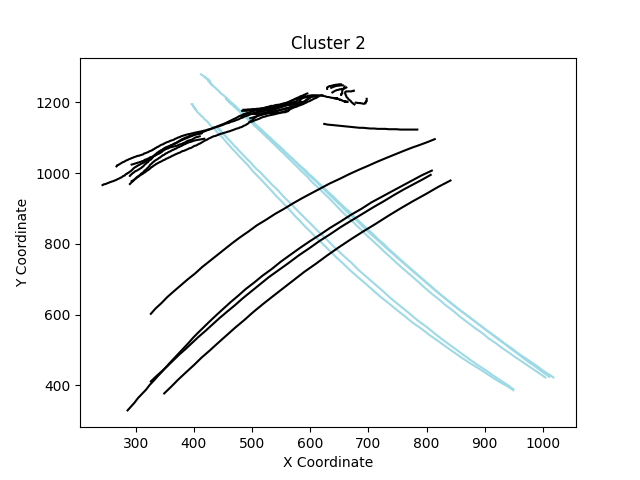
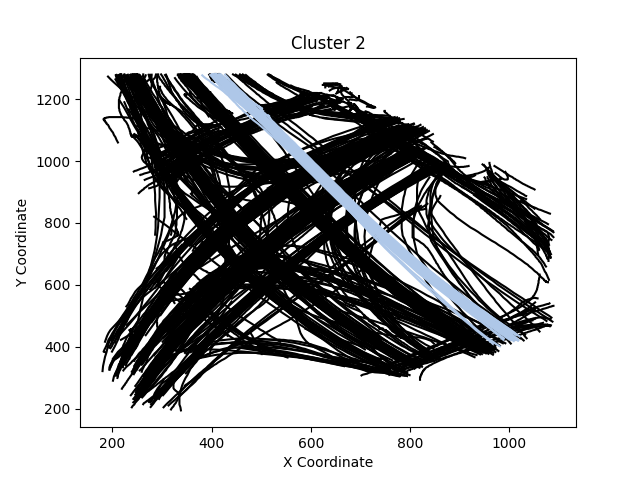
Update code

diff --git a/main.py b/main.py
@@ -1,13 +1,25 @@
 import json
-from src.trajectory  import Trajectory
+from src.trajectory import Trajectory
 from src.visualization import drawClusterOnAllPraj
-from src.trajectory_processor import generateDistanceMap,formClusterOfTrajectory,getBigCluster
-def main ():
+from src.trajectory_processor import generateDistanceMap, formClusterOfTrajectory, getBigCluster
+
+def main():
+    """
+    Main function for clustering and visualizing trajectories.
+
+    Reads trajectory data from a JSON file, performs clustering, and visualizes clusters.
+
+    Args:
+        None
+
+    Returns:
+        None
+    """
     # Define hyper-parameters
     windowSize = 200  # The window size for trajectory comparison
-    distanceThreshold = 0.5  # The threshold for merge cluster 
+    distanceThreshold = 0.5  # The threshold for merge clusters
     sampleSize = 1000  # The number of trajectories to process
-    numMostCommonGroupToDisplay=3   # The number of trajectories cluster shown on the full picture
+    numMostCommonGroupToDisplay = 30  # The number of trajectories clusters shown on the full picture
 
     # Read and parse trajectory data from the JSON file
     with open(r'data/trajectories.json') as dataFile:
@@ -20,16 +32,21 @@ def main ():
 
     # Generate the distance map
     distanceMap = generateDistanceMap(parsedTrajectoryList, windowSize)
-    clusters = formClusterOfTrajectory(distanceMap,distanceThreshold)
-    bigCluster=getBigCluster(clusters,numMostCommonGroupToDisplay)
     
-        
-        
+    # Form clusters of trajectories based on distance map and threshold
+    clusters = formClusterOfTrajectory(distanceMap, distanceThreshold)
+    
+    # Get the biggest clusters for visualization
+    bigCluster = getBigCluster(clusters, numMostCommonGroupToDisplay)
+
+    # Visualize each big cluster
     for clusterId, members in bigCluster.items():
-        drawClusterOnAllPraj(parsedTrajectoryList,bigCluster,clusterId,title=f'Cluster {clusterId}') 
-        
-    numPrajInBigCluster=sum([len(cluster) for _,cluster in bigCluster.items()])
-    drawClusterOnAllPraj(parsedTrajectoryList,bigCluster,title=f'Most common {numMostCommonGroupToDisplay} routes ({numPrajInBigCluster} of {len(parsedTrajectoryList)} trajectories)')
+        drawClusterOnAllPraj(parsedTrajectoryList, bigCluster, clusterId, title=f'Cluster {clusterId}') 
+
+    numPrajInBigCluster = sum([len(cluster) for _, cluster in bigCluster.items()])
+    # Visualize all big clusters and other trajectories in one image
+    drawClusterOnAllPraj(parsedTrajectoryList, bigCluster,
+                         title=f'Most common {numMostCommonGroupToDisplay} clusters ({numPrajInBigCluster} of {len(parsedTrajectoryList)} trajectories)')
 
 if __name__ == '__main__':
     main()

diff --git a/src/trajectory_processor.py b/src/trajectory_processor.py
@@ -22,18 +22,18 @@ def getBigCluster(clusters: list, numMostCommonGroupToDisplay: int) -> dict:
         else:
             clusterMembers[clusterId] = [idx]
 
-    cluster_sizes = Counter(clusters)  # Count the size of each cluster
-    largest_clusters = cluster_sizes.most_common(numMostCommonGroupToDisplay)  # Find the largest clusters
+    clusterSizes = Counter(clusters)  # Count the size of each cluster
+    largestClusters = clusterSizes.most_common(numMostCommonGroupToDisplay)  # Find the largest clusters
 
-    big_cluster = {}
-    for cluster, size in largest_clusters:
-        big_cluster[len(big_cluster)] = clusterMembers[cluster]
+    bigCluster = {}
+    for cluster, size in largestClusters:
+        bigCluster[len(bigCluster)] = clusterMembers[cluster]
 
-    return big_cluster
+    return bigCluster
 
 def formClusterOfTrajectory(distanceMap: np.ndarray, distanceThreshold: float) -> np.ndarray:
     """
-    Perform hierarchical clustering on a distance map.
+    Perform hierarchical clustering on a distance map with ski-learn.
 
     Args:
         distanceMap (numpy.ndarray): Distance map for entities.
@@ -67,16 +67,16 @@ def generateDistanceMap(parsedTrajectoryList: list, windowSize: int) -> np.ndarr
     for i, entity in enumerate(parsedTrajectoryList):
         disArray = []  # Initialize an array to store distances from the current entity
 
-        if i % (len(parsedTrajectoryList) / 20) == 0:
+        if i % 10 == 0:
             print(f'{i} of {len(parsedTrajectoryList)} trajectories has been processed')
 
-        # Calculate similarity with all other entities
+        # Calculate similarity with all other trajectories
         for j, entity2 in enumerate(parsedTrajectoryList):
             if i > j:
                 continue
-            similarity = 1 - entity.similarity(entity2, windowSize)  # Calculate the similarity
-            distanceMap[i][j] = similarity
-            distanceMap[j][i] = similarity
+            distance = 1 - entity.similarity(entity2, windowSize)  # Calculate the similarity
+            distanceMap[i][j] = distance
+            distanceMap[j][i] = distance
 
     print(f'All trajectories have been processed')
 

diff --git a/src/visualization.py b/src/visualization.py
@@ -28,15 +28,17 @@ def drawClusterOnAllPraj(allTrajectory: list,clusterSet: dict,clusterIdx=None,ti
     if clusterIdx==None:
         for cluster_idx,cluster in clusterSet.items():
             for mem in cluster:
-                traj=allTrajectory[mem]
-                x_coords, y_coords = traj.trajExport()
-                plt.plot(x_coords, y_coords, color=cluster_colors[cluster_idx])
                 clusterPrajList.append(mem)
         for idx,traj in enumerate(allTrajectory):
             if idx in clusterPrajList:
                 continue
             x_coords, y_coords = traj.trajExport()
             plt.plot(x_coords, y_coords, color='black')
+        for cluster_idx,cluster in clusterSet.items():
+            for mem in cluster:
+                traj=allTrajectory[mem]
+                x_coords, y_coords = traj.trajExport()
+                plt.plot(x_coords, y_coords, color=cluster_colors[cluster_idx])
         # Add labels and title
         plt.xlabel('X Coordinate')
         plt.ylabel('Y Coordinate')
@@ -45,9 +47,6 @@ def drawClusterOnAllPraj(allTrajectory: list,clusterSet: dict,clusterIdx=None,ti
         plt.clf()
     else:
         for mem in clusterSet[clusterIdx]:
-            traj=allTrajectory[mem]
-            x_coords, y_coords = traj.trajExport()
-            plt.plot(x_coords, y_coords, color=cluster_colors[clusterIdx])
             clusterPrajList.append(mem)
         
         for idx,traj in enumerate(allTrajectory):
@@ -56,6 +55,10 @@ def drawClusterOnAllPraj(allTrajectory: list,clusterSet: dict,clusterIdx=None,ti
             x_coords, y_coords = traj.trajExport()
             plt.plot(x_coords, y_coords, color='black')
             
+        for mem in clusterSet[clusterIdx]:
+            traj=allTrajectory[mem]
+            x_coords, y_coords = traj.trajExport()
+            plt.plot(x_coords, y_coords, color=cluster_colors[clusterIdx])
         
         
         # Add labels and title
